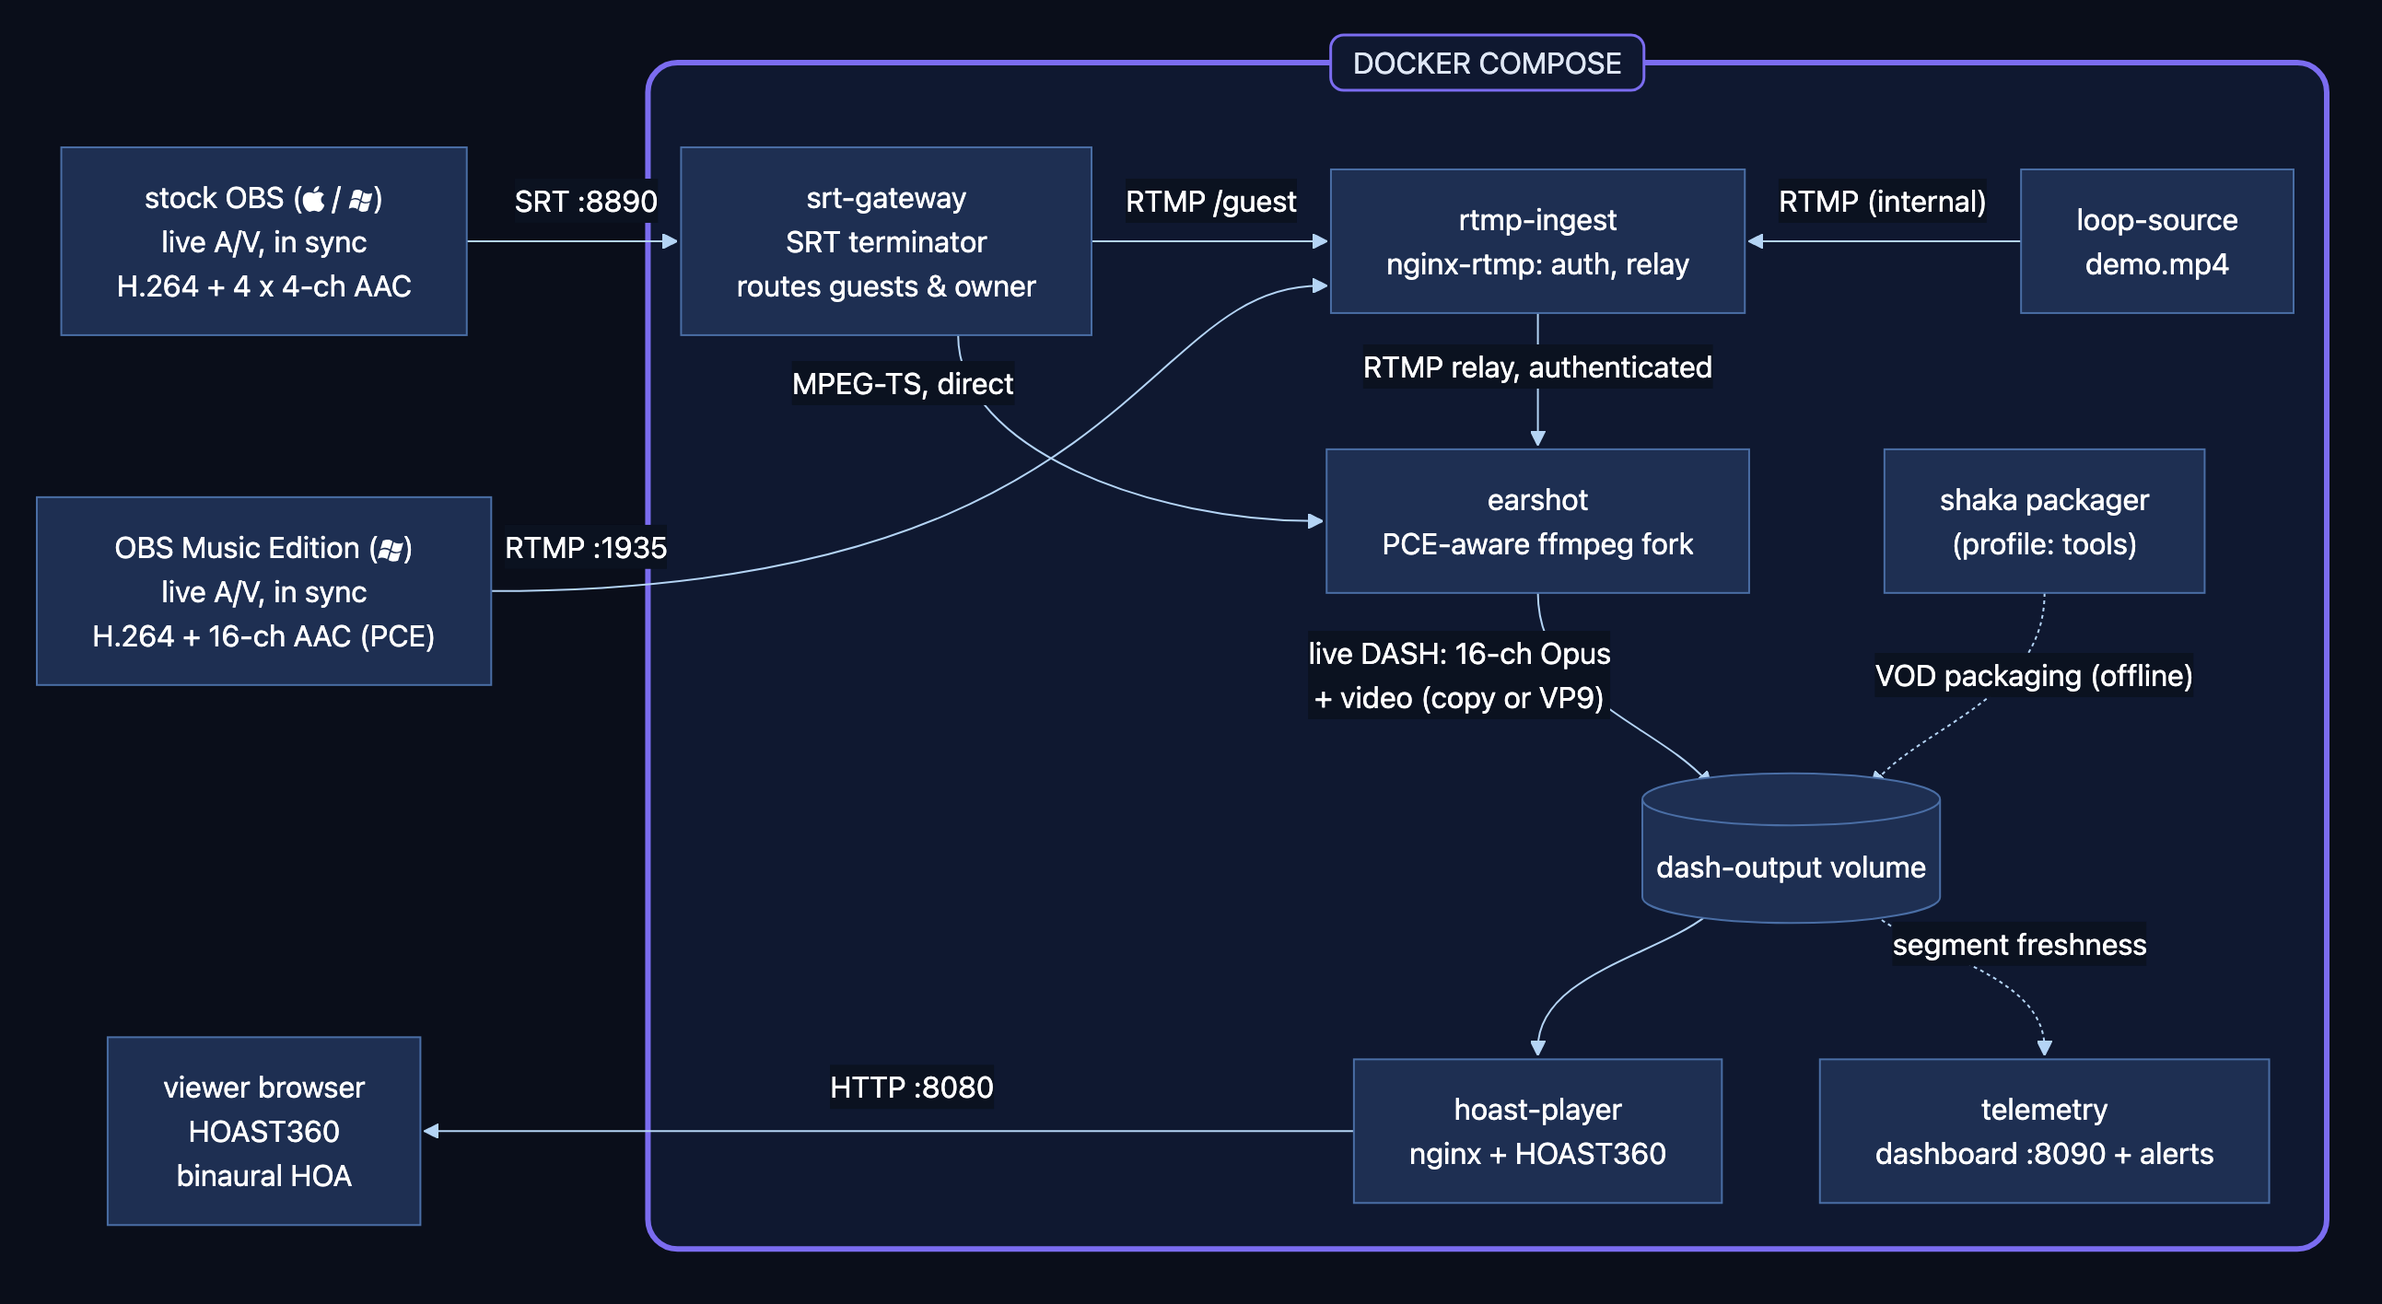
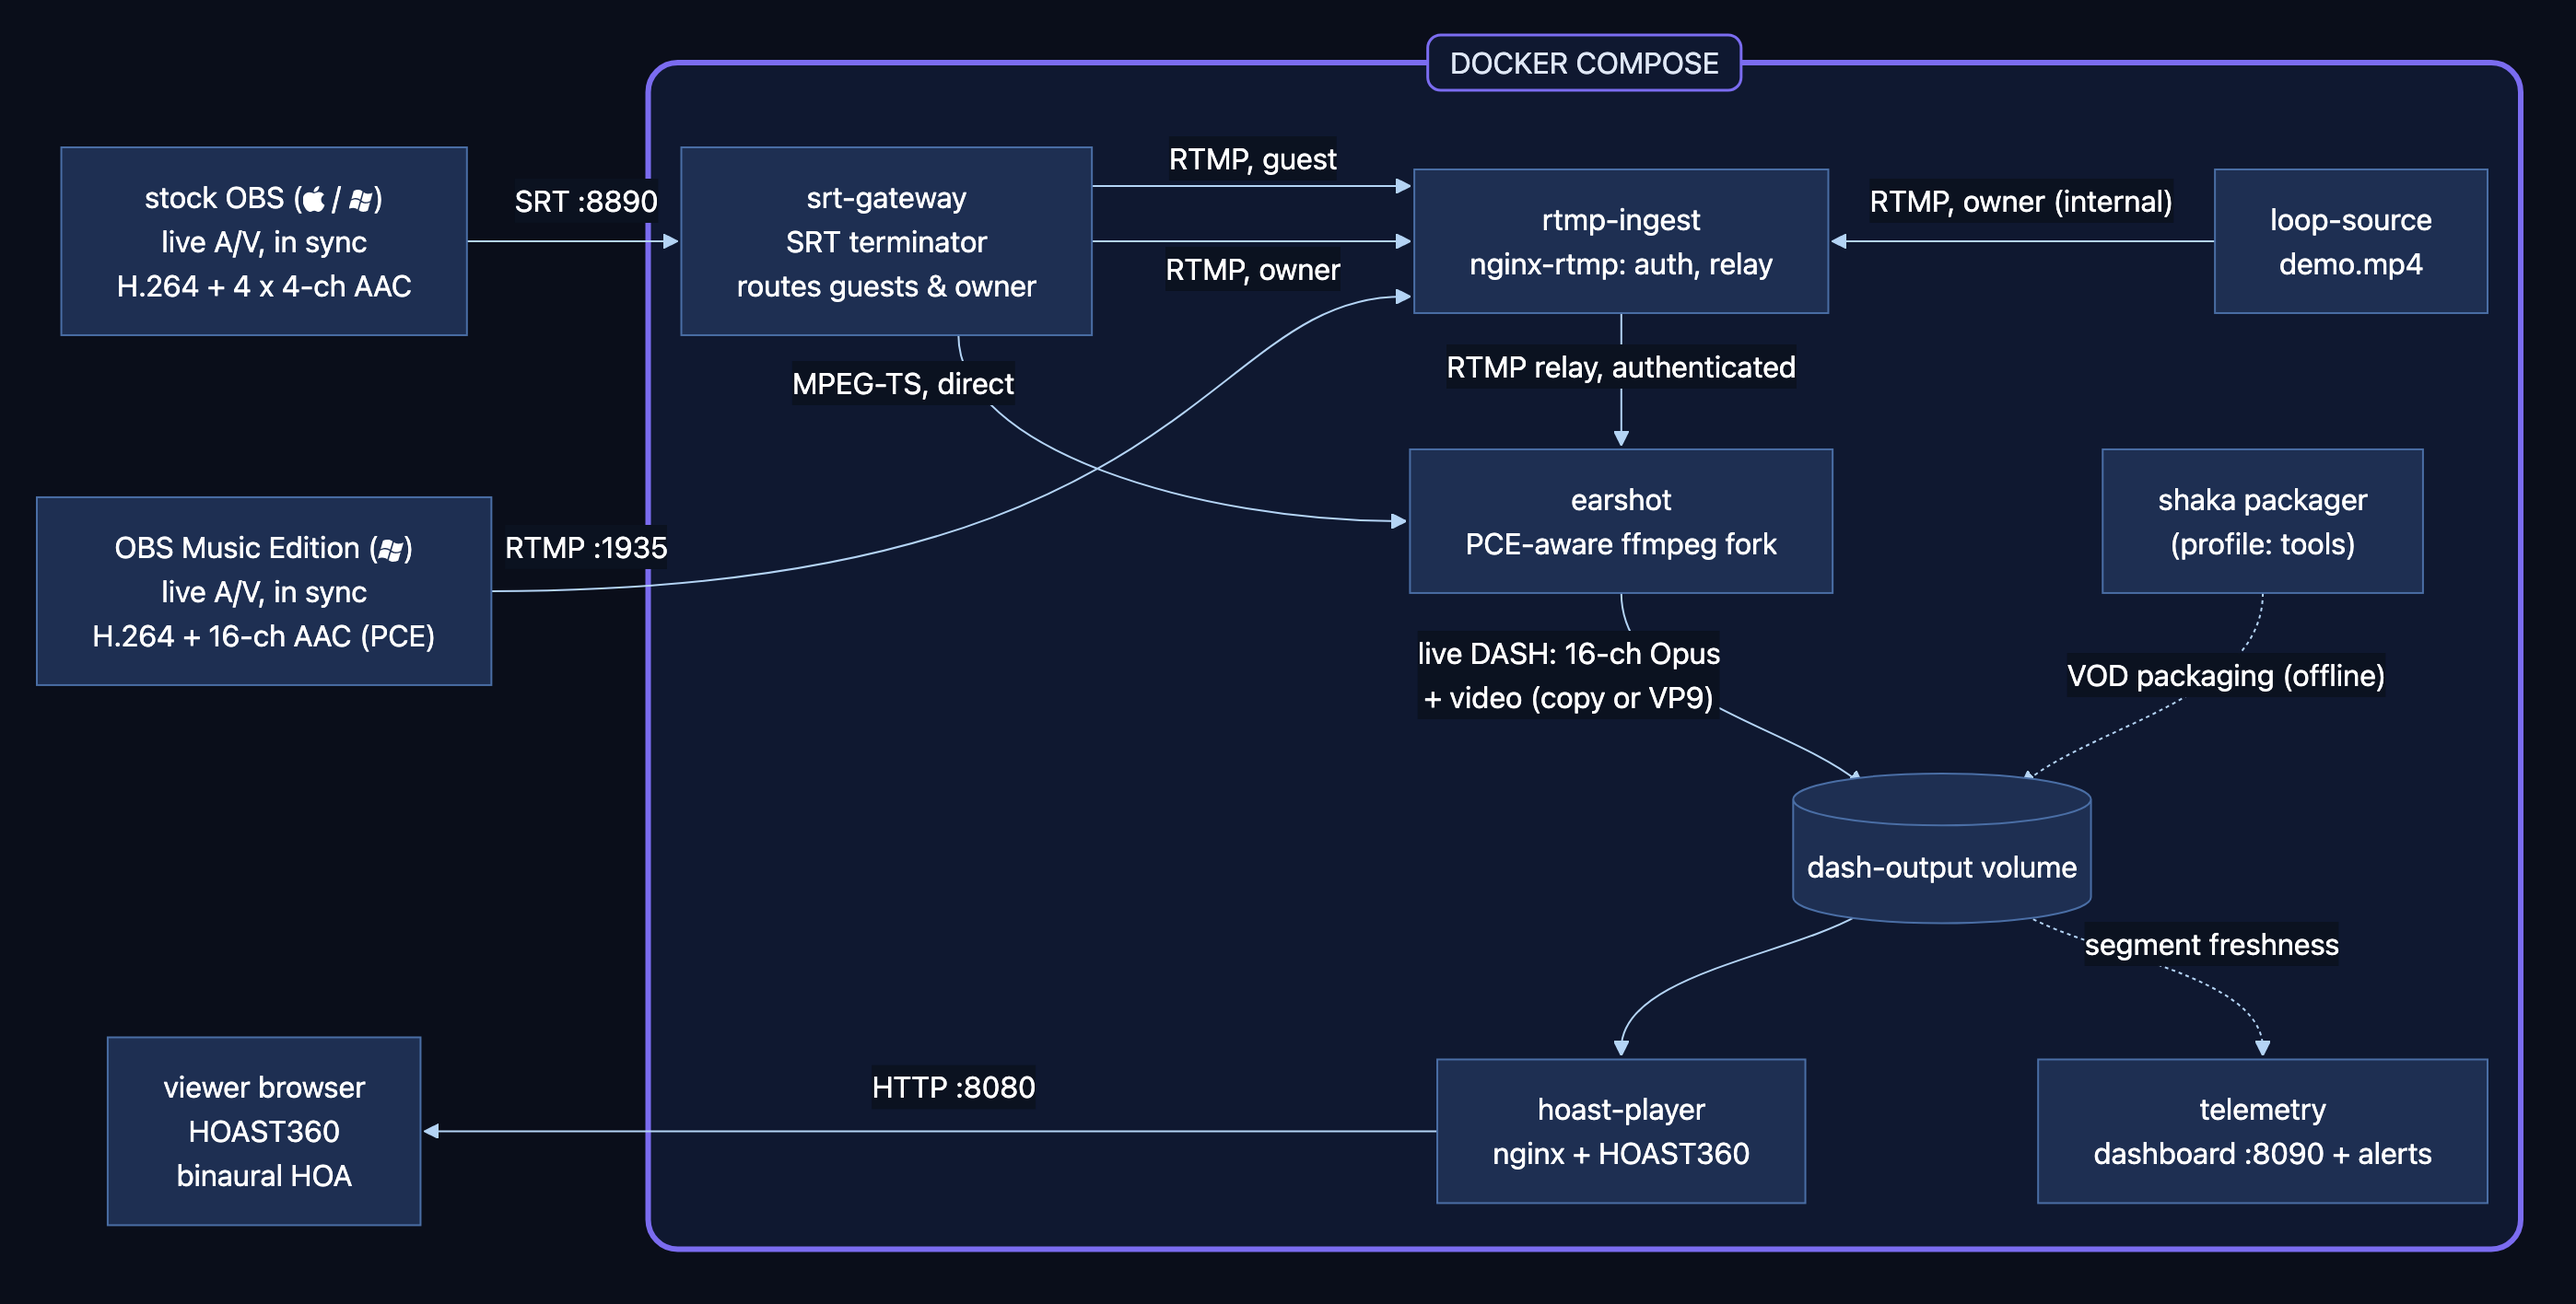
Architecture diagram: draw both RTMP routes, name them by role
The gateway has always been able to land a stream in either of
rtmp-ingest's applications, but only the guest one was ever drawn.
Both are edges now, so the picture matches what gateway.py does.

The labels name the ROLE (guest / owner) rather than the mechanism
(arbiter-gated / key-authed). Role is what a sender actually needs to
know, it matches srt-gateway's own SRT_MODE vocabulary, and the
mechanism is already explained in prose one section away in
docs/architecture/README.md. These labels anticipate the rtmp-ingest
application rename (live -> owner) that follows.

Layout, in postprocess.py:

- box_right was derived from loop-source's row alone, so telemetry,
  the widest node in the right column, overhung the wall. It now
  clears whichever of shaka/telemetry reaches furthest, with the same
  18px inset loop-source gets.
- The three arrows into rtmp-ingest are evenly spaced, with the owner
  route landing on the shared gateway/ingest centreline.
- Both route labels sit closer to their own lines, so the lower one
  clears the OBS Music Edition curve beneath it.

diff --git a/docs/architecture/postprocess.py b/docs/architecture/postprocess.py
@@ -40,7 +40,11 @@ box_bottom = float(bm.group(2)) + float(bm.group(4))
 # far enough to seat the gateway plus a gap wide enough for its edge label. The
 # space this opens is the box's lower-left, which is empty in this layout.
 GW_INSET = 18.0                  # gateway's inset from the wall (mirrors loop-source)
-GW_GAP   = 130.0                 # gateway -> ingest run; must fit "RTMP /guest"
+GW_GAP   = 175.0                 # gateway -> ingest run; sized for the old
+                                  # mechanism-named labels ("RTMP, arbiter-gated"
+                                  # at 146px) and left wide since role-named ones
+                                  # ("RTMP, guest" / "RTMP, owner", ~95px) fit
+                                  # with room to spare rather than exactly
 _ix, _iy = node_pos('INGEST')
 box_left = min(box_left,
                (_ix - node_halfwidth('INGEST')) - GW_INSET
@@ -49,8 +53,8 @@ box_left = min(box_left,
 # The same problem on the right wall, and it appeared when the owner's direct
 # edge was added: giving earshot a second parent makes dagre re-rank the top
 # row, ingest grows rightward, and the gap it leaves for loop-source is no
-# longer wide enough for that edge's label ("RTMP (internal)" clipped to a
-# couple of characters). Push the right wall out so the run always fits, the
+# longer wide enough for that edge's label ("RTMP, owner (internal)", ~165px)
+# to avoid clipping. Push the right wall out so the run always fits, the
 # mirror of the GW_INSET/GW_GAP treatment above.
 LOOP_INSET = 18.0
 LOOP_GAP   = 150.0               # ingest -> loop-source run; fits the label
@@ -100,6 +104,16 @@ VLX = (ex_ + sx_) / 2.0        # volume centred between the columns
 _move('PLAYER', PLX, ppy)
 _move('TELEM',  TLX, tty)
 _move('VOL',    VLX, vy_)
+
+# telemetry's own label ("telemetry dashboard :8090 + alerts") is wider than
+# shaka's, so it can reach past the wall the LOOP_GAP formula sized further
+# down (that formula only knows about loop-source, not this column). Widen to
+# clear whichever of shaka/telemetry actually reaches furthest right, same
+# 18px inset convention as loop-source gets below.
+RCOL_INSET = 18.0
+box_right = max(box_right,
+                 TLX + node_halfwidth('TELEM') + RCOL_INSET,
+                 sx_ + node_halfwidth('SHAKA') + RCOL_INSET)
 
 def _edge_curve(eid, p0, p1, out_dir, in_dir):
     """One cubic in dagre's own idiom for these edges: it leaves a box face
@@ -220,10 +234,32 @@ set_edge('L_SRTOBS_GATEWAY_0', f"M{sr_sx},{GY}L{sr_ex},{GY}")
 PORT_LX = (max(SX + shw, OX + ohw) + (GX - ghw)) / 2.0
 set_label('L_SRTOBS_GATEWAY_0', PORT_LX, GY - 22.0)
 
-# 2) srt-gateway -> ingest: straight horizontal, completing the SRT run
+# 2) srt-gateway -> ingest: TWO parallel lines, not one. The gateway can land
+#    a stream in either of ingest's applications - guests through the one that
+#    is admission-controlled, owners (and a gateway with no session-protocol
+#    secret) through the one that is only key-checked - and drawing them as
+#    two lines between the same two boxes is the point: same wire, two
+#    different security models, exactly as real as each other. mermaid gives
+#    the second GATEWAY->INGEST edge in source order the id _2, not _1 (its
+#    own global edge counter, confirmed empirically, not a typo here).
+# Three arrows land on ingest's left face in total (this pair, plus OBS Music
+# Edition's curve below) and are spaced evenly by ARROW_SEP: guest (arbiter-
+# gated) on top, owner (key-authed) dead centre on the shared gateway/ingest
+# row (iy == GY - "the middle of the vertical edge of srt-gateway/rtmp-
+# ingest"), OBS Music Edition below (its own landing point, o_ey further
+# down, mirrors this).
+ARROW_SEP = 30.0
 g_sx, g_ex = GX + ghw, ix - ihw - 6.0
-set_edge('L_GATEWAY_INGEST_0', f"M{g_sx},{iy}L{g_ex},{iy}")
-set_label('L_GATEWAY_INGEST_0', (g_sx + (ix - ihw)) / 2.0, iy - 22.0)
+GATED_Y, KEYED_Y = iy - ARROW_SEP, iy
+set_edge('L_GATEWAY_INGEST_0', f"M{g_sx},{GATED_Y}L{g_ex},{GATED_Y}")
+set_edge('L_GATEWAY_INGEST_2', f"M{g_sx},{KEYED_Y}L{g_ex},{KEYED_Y}")
+# Labels sit close to their own line, not the ±22 used elsewhere: owner's
+# only has ~31px before the OBS Music Edition curve passes beneath it (that
+# curve's closest approach to this label is y=iy+31, at the label's own right
+# edge), so anything looser would ride onto the curve.
+ROUTE_LABEL_OFF = 15.0
+set_label('L_GATEWAY_INGEST_0', (g_sx + (ix - ihw)) / 2.0, GATED_Y - ROUTE_LABEL_OFF)
+set_label('L_GATEWAY_INGEST_2', (g_sx + (ix - ihw)) / 2.0, KEYED_Y + ROUTE_LABEL_OFF)
 
 # 2b) srt-gateway -> earshot, the OWNER route: leaves the gateway's underside
 #     and lands on earshot's left face, deliberately below and clear of the
@@ -253,7 +289,7 @@ set_label('L_INGEST_EARSHOT_0', ix, (iy + ihh + ey_ - ehh) / 2.0 - 8.0)
 #    rather than underneath keeps it clear of the earshot relay arrow and its
 #    label, which both occupy ingest's underside.
 o_sx, o_sy = OX + ohw, OY
-o_ex, o_ey = ix - ihw - 6.0, iy + ihh * 0.62
+o_ex, o_ey = ix - ihw - 6.0, iy + ARROW_SEP
 # Both control points share one x, placed late (0.78) so the curve stays flat
 # beneath srt-gateway and only lifts once past it: the legacy path visibly
 # runs UNDER the gateway to reach ingest directly, without grazing its corner.
